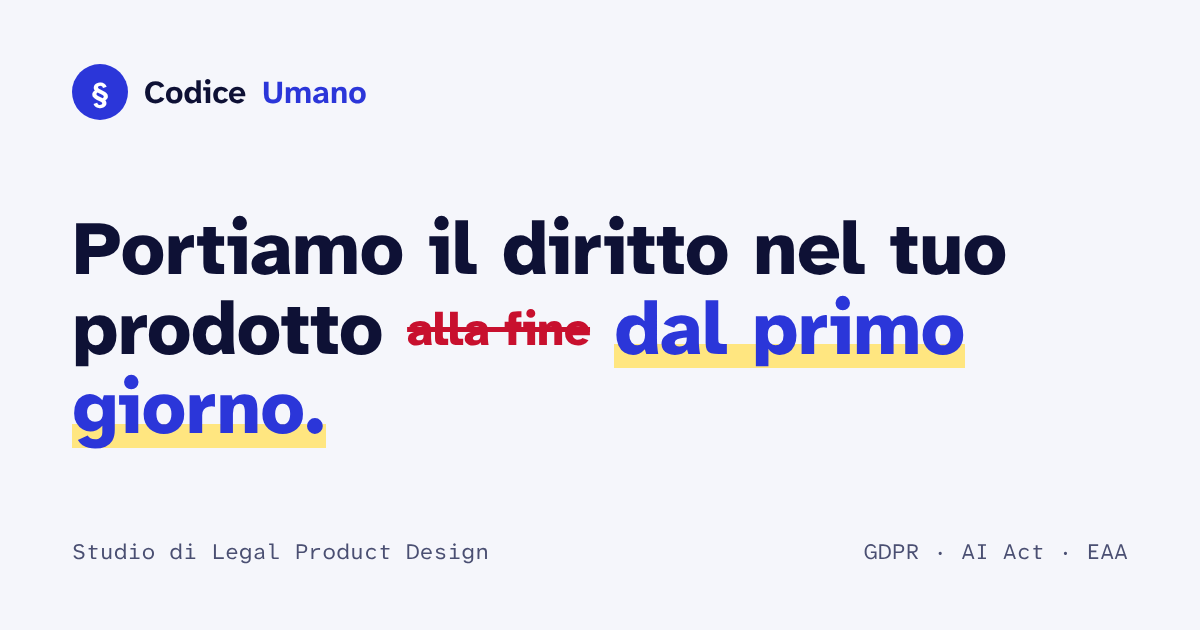
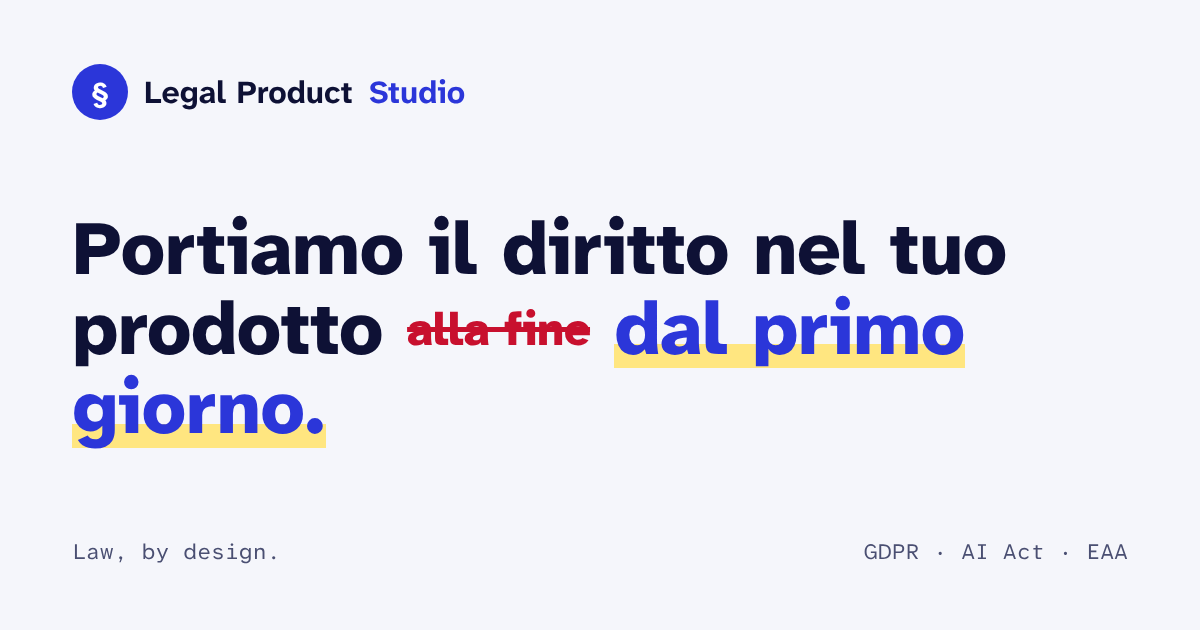
Rename the brand to Legal Product Studio
Use the studio's real name and payoff ("Law, by design.") in the title,
meta tags, wordmark, hero eyebrow, comparison table, footer, privacy
notice and share image. Contact address moves to the legalproductstudio.tech
domain. The wordmark stays in Atkinson Hyperlegible and wraps onto two
lines on narrow phones so the header never overflows at 320px.

Claude-Session: https://claude.ai/code/session_01CX8LH9g2otvvpQhhDmipm4

diff --git a/index.html b/index.html
@@ -3,13 +3,13 @@
 <head>
   <meta charset="utf-8">
   <meta name="viewport" content="width=device-width, initial-scale=1, viewport-fit=cover">
-  <title>Codice Umano · Legal Product Design</title>
+  <title>Legal Product Studio · Law, by design.</title>
   <meta name="claude:viewport-fit-sides" content="cover">
-  <meta name="description" content="Studio di Legal Product Design. Portiamo il giurista dentro il tuo team di prodotto dal primo giorno: prodotti digitali trasparenti, etici e conformi a GDPR, AI Act ed European Accessibility Act.">
+  <meta name="description" content="Legal Product Studio. Portiamo il giurista dentro il tuo team di prodotto dal primo giorno: prodotti digitali trasparenti, etici e conformi a GDPR, AI Act ed European Accessibility Act.">
   <meta name="theme-color" content="#2B36D9">
   <meta property="og:type" content="website">
   <meta property="og:locale" content="it_IT">
-  <meta property="og:title" content="Codice Umano · Il diritto, progettato.">
+  <meta property="og:title" content="Legal Product Studio · Law, by design.">
   <meta property="og:description" content="Portiamo il diritto nel tuo prodotto dal primo giorno. Legal design, Value Sensitive Design, FRIA e accessibilità per team di prodotto.">
   <meta property="og:image" content="assets/img/og-image.png">
   <meta name="twitter:card" content="summary_large_image">
@@ -37,9 +37,9 @@
 
 <header class="site-header" id="site-header">
   <div class="wrap header-inner">
-    <a class="brand" href="#top" aria-label="Codice Umano, torna all'inizio">
+    <a class="brand" href="#top" aria-label="Legal Product Studio, torna all'inizio">
       <span class="brand-mark" aria-hidden="true">§</span>
-      <span class="brand-name">Codice <i>Umano</i></span>
+      <span class="brand-name">Legal Product <span class="brand-studio">Studio</span></span>
     </a>
     <nav class="main-nav" id="main-nav" aria-label="Navigazione principale">
       <ul>
@@ -65,7 +65,7 @@
   <section class="hero" id="top" aria-labelledby="hero-title">
     <div class="wrap hero-grid">
       <div class="hero-copy">
-        <p class="eyebrow">Studio di Legal Product Design</p>
+        <p class="eyebrow" lang="en">Law, by design.</p>
         <h1 class="hero-title" id="hero-title">
           Portiamo il diritto nel tuo prodotto
           <span class="track">
@@ -661,22 +661,22 @@
 
       <div class="compare-table-wrap">
         <table class="vs">
-          <caption class="sr-only">Confronto tra consulenza legale tradizionale e Codice Umano</caption>
+          <caption class="sr-only">Confronto tra consulenza legale tradizionale e Legal Product Studio</caption>
           <thead>
             <tr>
               <th scope="col"><span class="sr-only">Aspetto</span></th>
               <th scope="col">Consulenza legale tradizionale</th>
-              <th scope="col" class="vs-us">Codice Umano</th>
+              <th scope="col" class="vs-us">Legal Product Studio</th>
             </tr>
           </thead>
           <tbody>
-            <tr><th scope="row">Quando entra in gioco</th><td data-label="Tradizionale" class="vs-old">A prodotto finito</td><td data-label="Codice Umano" class="vs-us">Dal primo wireframe</td></tr>
-            <tr><th scope="row">Cosa consegna</th><td data-label="Tradizionale" class="vs-old">Un parere scritto</td><td data-label="Codice Umano" class="vs-us">Flussi, componenti e user story</td></tr>
-            <tr><th scope="row">Che lingua parla</th><td data-label="Tradizionale" class="vs-old">Legalese</td><td data-label="Codice Umano" class="vs-us">La lingua del tuo team</td></tr>
-            <tr><th scope="row">Obiettivo</th><td data-label="Tradizionale" class="vs-old">Essere compliant</td><td data-label="Codice Umano" class="vs-us">Essere virtuosi</td></tr>
-            <tr><th scope="row">Le informative</th><td data-label="Tradizionale" class="vs-old">80 pagine da accettare</td><td data-label="Codice Umano" class="vs-us">Componenti chiari e interattivi</td></tr>
-            <tr><th scope="row">Il ruolo</th><td data-label="Tradizionale" class="vs-old">Controllore esterno</td><td data-label="Codice Umano" class="vs-us">Membro del team, corresponsabile</td></tr>
-            <tr><th scope="row">Effetto sul team</th><td data-label="Tradizionale" class="vs-old">Paura del no</td><td data-label="Codice Umano" class="vs-us">Fiducia reciproca</td></tr>
+            <tr><th scope="row">Quando entra in gioco</th><td data-label="Tradizionale" class="vs-old">A prodotto finito</td><td data-label="Legal Product Studio" class="vs-us">Dal primo wireframe</td></tr>
+            <tr><th scope="row">Cosa consegna</th><td data-label="Tradizionale" class="vs-old">Un parere scritto</td><td data-label="Legal Product Studio" class="vs-us">Flussi, componenti e user story</td></tr>
+            <tr><th scope="row">Che lingua parla</th><td data-label="Tradizionale" class="vs-old">Legalese</td><td data-label="Legal Product Studio" class="vs-us">La lingua del tuo team</td></tr>
+            <tr><th scope="row">Obiettivo</th><td data-label="Tradizionale" class="vs-old">Essere compliant</td><td data-label="Legal Product Studio" class="vs-us">Essere virtuosi</td></tr>
+            <tr><th scope="row">Le informative</th><td data-label="Tradizionale" class="vs-old">80 pagine da accettare</td><td data-label="Legal Product Studio" class="vs-us">Componenti chiari e interattivi</td></tr>
+            <tr><th scope="row">Il ruolo</th><td data-label="Tradizionale" class="vs-old">Controllore esterno</td><td data-label="Legal Product Studio" class="vs-us">Membro del team, corresponsabile</td></tr>
+            <tr><th scope="row">Effetto sul team</th><td data-label="Tradizionale" class="vs-old">Paura del no</td><td data-label="Legal Product Studio" class="vs-us">Fiducia reciproca</td></tr>
           </tbody>
         </table>
       </div>
@@ -793,14 +793,14 @@
         <div class="direct">
           <p class="direct-label">Preferisci scrivere direttamente?</p>
           <p class="direct-row">
-            <span class="direct-email" id="contact-email">ciao@codiceumano.it</span>
+            <span class="direct-email" id="contact-email">ciao@legalproductstudio.tech</span>
             <button type="button" class="copy-btn" id="copy-email"><svg aria-hidden="true"><use href="#i-copy"/></svg><span>Copia</span></button>
           </p>
         </div>
       </div>
 
       <!-- Set data-endpoint to a form service URL (e.g. Formspree) to send via POST; leave empty to open the visitor's email client. -->
-      <form class="contact" id="contact-form" data-endpoint="" data-email="ciao@codiceumano.it" novalidate>
+      <form class="contact" id="contact-form" data-endpoint="" data-email="ciao@legalproductstudio.tech" novalidate>
         <div class="field">
           <label for="f-name">Nome e cognome <span class="req">(obbligatorio)</span></label>
           <input id="f-name" name="nome" type="text" autocomplete="name" required>
@@ -839,10 +839,10 @@
 
 <footer class="site-footer">
   <div class="wrap">
-    <p class="footer-mark" aria-hidden="true">Codice <i>Umano</i></p>
+    <p class="footer-mark" aria-hidden="true">Legal Product <span>Studio</span></p>
     <div class="footer-grid">
       <div class="footer-about">
-        <p class="footer-tag">Studio di Legal Product Design</p>
+        <p class="footer-tag" lang="en">Law, by design.</p>
         <p class="footer-honest"><strong>Predichiamo bene e razzoliamo bene.</strong> Questo sito non usa cookie né tracker, ospita da sé i propri caratteri, si naviga da tastiera e rispetta chi preferisce meno animazioni. Tutti i testi sono composti in Atkinson Hyperlegible, il carattere progettato dal Braille Institute per chi ha una vista ridotta, senza corsivi né maiuscole spaziate.</p>
       </div>
       <nav class="footer-nav" aria-label="Studio">
@@ -867,13 +867,13 @@
         <p class="footer-h">Contatti</p>
         <ul>
           <li><a href="#contatti">Prenota una call</a></li>
-          <li><span class="footer-email">ciao@codiceumano.it</span></li>
+          <li><span class="footer-email">ciao@legalproductstudio.tech</span></li>
           <li><button type="button" class="link-btn" data-open-privacy>Privacy in breve</button></li>
         </ul>
       </div>
     </div>
     <div class="footer-bottom">
-      <p>© <span id="year">2026</span> Codice Umano · P.IVA 00000000000</p>
+      <p>© <span id="year">2026</span> Legal Product Studio · P.IVA 00000000000</p>
       <p>Letto, approvato e progettato insieme.</p>
     </div>
   </div>
@@ -892,8 +892,8 @@
       <div><dt>Cookie e tracker</dt><dd>Nessuno.</dd></div>
       <div><dt>Terze parti</dt><dd>Nessuna. Anche i caratteri tipografici sono ospitati qui.</dd></div>
       <div><dt>Per quanto</dt><dd>Il tempo necessario a gestire la richiesta.</dd></div>
-      <div><dt>I tuoi diritti</dt><dd>Accesso, rettifica, cancellazione e opposizione: scrivi a ciao@codiceumano.it. Puoi anche rivolgerti al Garante per la protezione dei dati personali.</dd></div>
-      <div><dt>Titolare</dt><dd>Codice Umano, [ragione sociale e indirizzo].</dd></div>
+      <div><dt>I tuoi diritti</dt><dd>Accesso, rettifica, cancellazione e opposizione: scrivi a ciao@legalproductstudio.tech. Puoi anche rivolgerti al Garante per la protezione dei dati personali.</dd></div>
+      <div><dt>Titolare</dt><dd>Legal Product Studio, [ragione sociale e indirizzo].</dd></div>
     </dl>
     <form method="dialog" class="privacy-actions">
       <button class="btn btn-primary" type="submit">Ho capito</button>

diff --git a/assets/css/styles.css b/assets/css/styles.css
@@ -1,5 +1,5 @@
 /* ==========================================================================
-   Codice Umano · Legal Product Design Studio
+   Legal Product Studio · Law, by design.
    Layout: the page reads like a statute under revision. Articles run in the
    main column, reviewer comments sit in the margin, and cobalt "rubber stamp"
    bands carry the calls to action.
@@ -286,7 +286,10 @@ em, i { font-style: normal; }
 .brand-name {
   font-family: var(--f-display); font-size: 1.3rem; font-weight: 600; letter-spacing: -0.01em;
 }
-.brand-name i { font-weight: 500; color: var(--accent); }
+.brand-studio { color: var(--accent); }
+@media (max-width: 480px) {
+  .brand-name { font-size: 1rem; line-height: 1.1; max-width: 8em; }
+}
 
 .main-nav { display: flex; align-items: center; gap: var(--s-5); }
 .main-nav ul { display: flex; gap: var(--s-1); }
@@ -1217,11 +1220,11 @@ em, i { font-style: normal; }
 /* Footer */
 .site-footer { background: var(--paper-2); padding-top: var(--s-8); padding-bottom: calc(var(--s-6) + env(safe-area-inset-bottom, 0px)); overflow: hidden; }
 .footer-mark {
-  font-family: var(--f-display); font-weight: 500; letter-spacing: -0.03em; line-height: 0.9;
-  font-size: clamp(3.2rem, 1rem + 11vw, 11rem);
-  white-space: nowrap;
+  font-family: var(--f-display); font-weight: 500; letter-spacing: -0.03em; line-height: 1;
+  font-size: clamp(2.2rem, 0.6rem + 6.6vw, 6.4rem);
+  text-wrap: balance;
 }
-.footer-mark i { color: var(--accent); }
+.footer-mark span { color: var(--accent); }
 .footer-grid {
   display: grid; gap: var(--s-6);
   grid-template-columns: minmax(0, 1fr);

diff --git a/README.md b/README.md
@@ -1,4 +1,4 @@
-# Codice Umano · Legal Product Design
+# Legal Product Studio · Law, by design.
 
 Sito one-page per uno studio che porta il **giurista designer** dentro i team di prodotto digitali: legal design, Value Sensitive Design e FRIA, accessibilità (European Accessibility Act) e audit dei dark pattern.
 
@@ -41,9 +41,9 @@ assets/img/             favicon e immagine di anteprima per i social
 
 ## Prima di andare online
 
-1. **Dati dello studio.** Sostituisci `ciao@codiceumano.it` (compare in `index.html` e nell'attributo `data-email` del modulo), `P.IVA 00000000000` nel footer e `[ragione sociale e indirizzo]` nella finestra "Privacy in breve".
+1. **Dati dello studio.** Verifica l'indirizzo `ciao@legalproductstudio.tech` (compare in `index.html` e nell'attributo `data-email` del modulo) e sostituisci `P.IVA 00000000000` nel footer e `[ragione sociale e indirizzo]` nella finestra "Privacy in breve".
 2. **Modulo contatti.** Senza configurazione apre il programma di posta del visitatore con la richiesta già compilata. Per ricevere le richieste direttamente, imposta nel `<form id="contact-form">` l'attributo `data-endpoint` con l'URL di un servizio di form (per esempio Formspree): il modulo invierà i dati in POST.
-3. **Nome del brand.** "Codice Umano" è un nome di lavoro: codice come codice civile e codice sorgente, umano come il Value Sensitive Design.
+3. **Marchio.** Il wordmark "Legal Product Studio" è composto nel carattere del sito (Atkinson Hyperlegible) per restare leggibile. Se preferisci il logo ufficiale di legalproductstudio.tech, sostituisci `.brand-name` con il file del logo e un `alt` "Legal Product Studio".
 4. **Contenuti legali.** I riferimenti normativi (art. 7 e 83 GDPR, art. 50 e 99 AI Act, Direttiva (UE) 2019/882 e D.Lgs. 82/2022, art. 33 Codice del Consumo, linee guida EDPB e Garante) vanno fatti rivedere dal giurista dello studio prima della pubblicazione.
 
 ## Scelte di progetto
